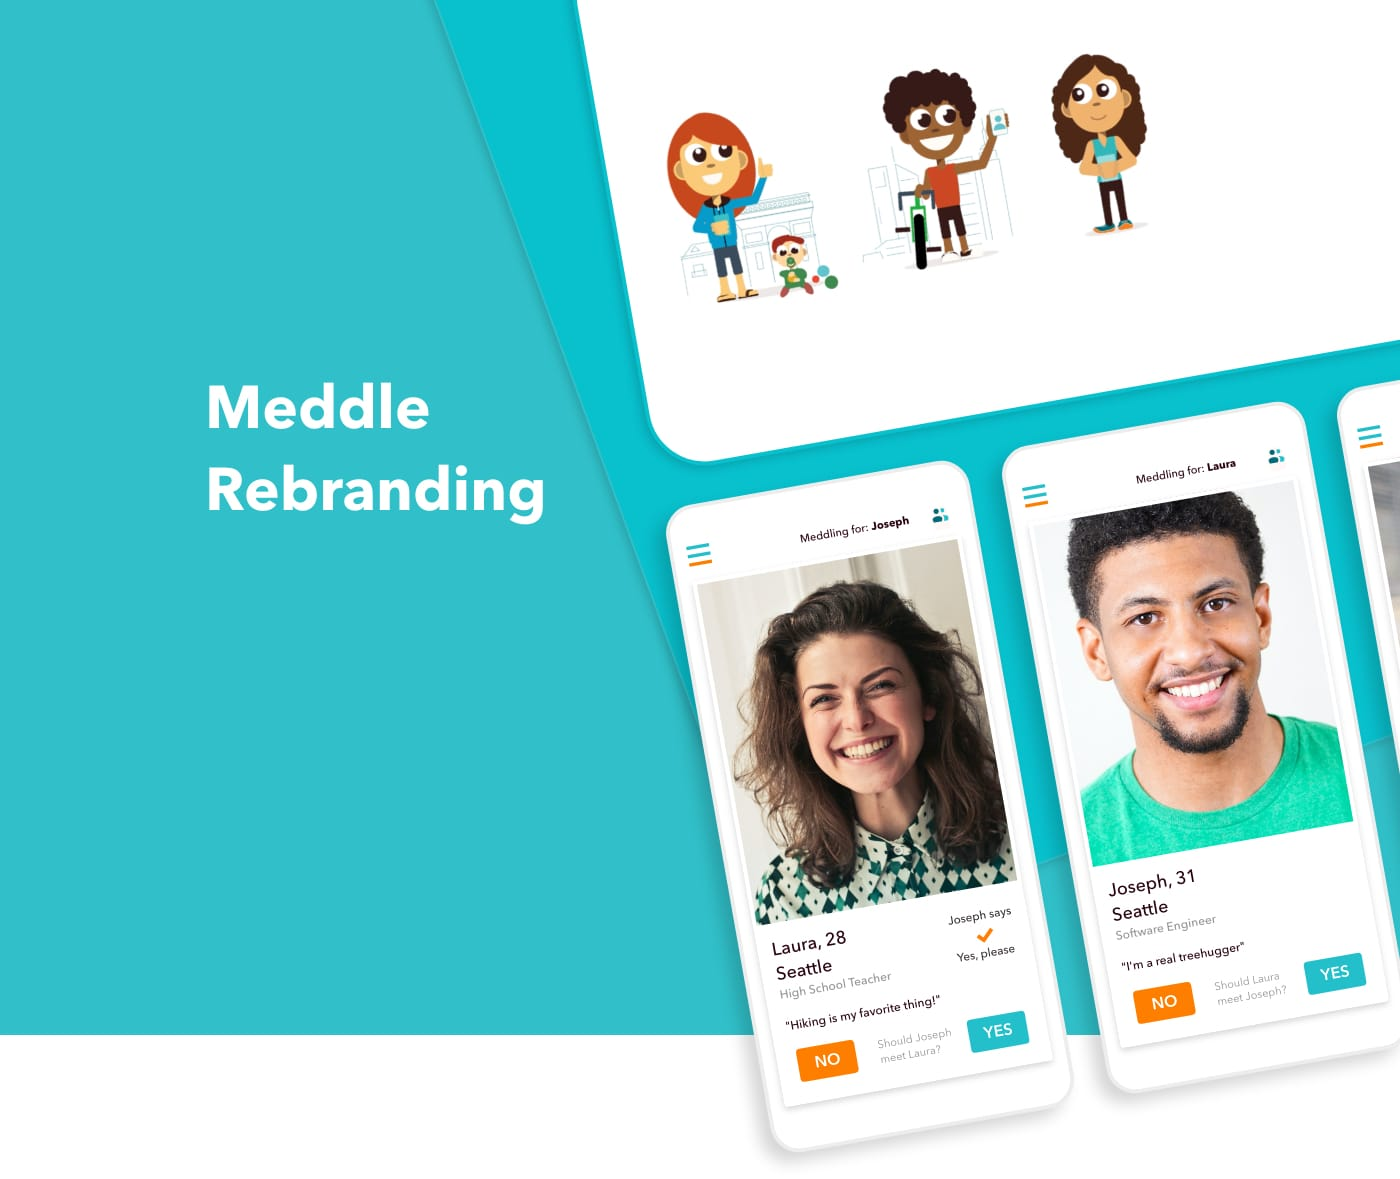
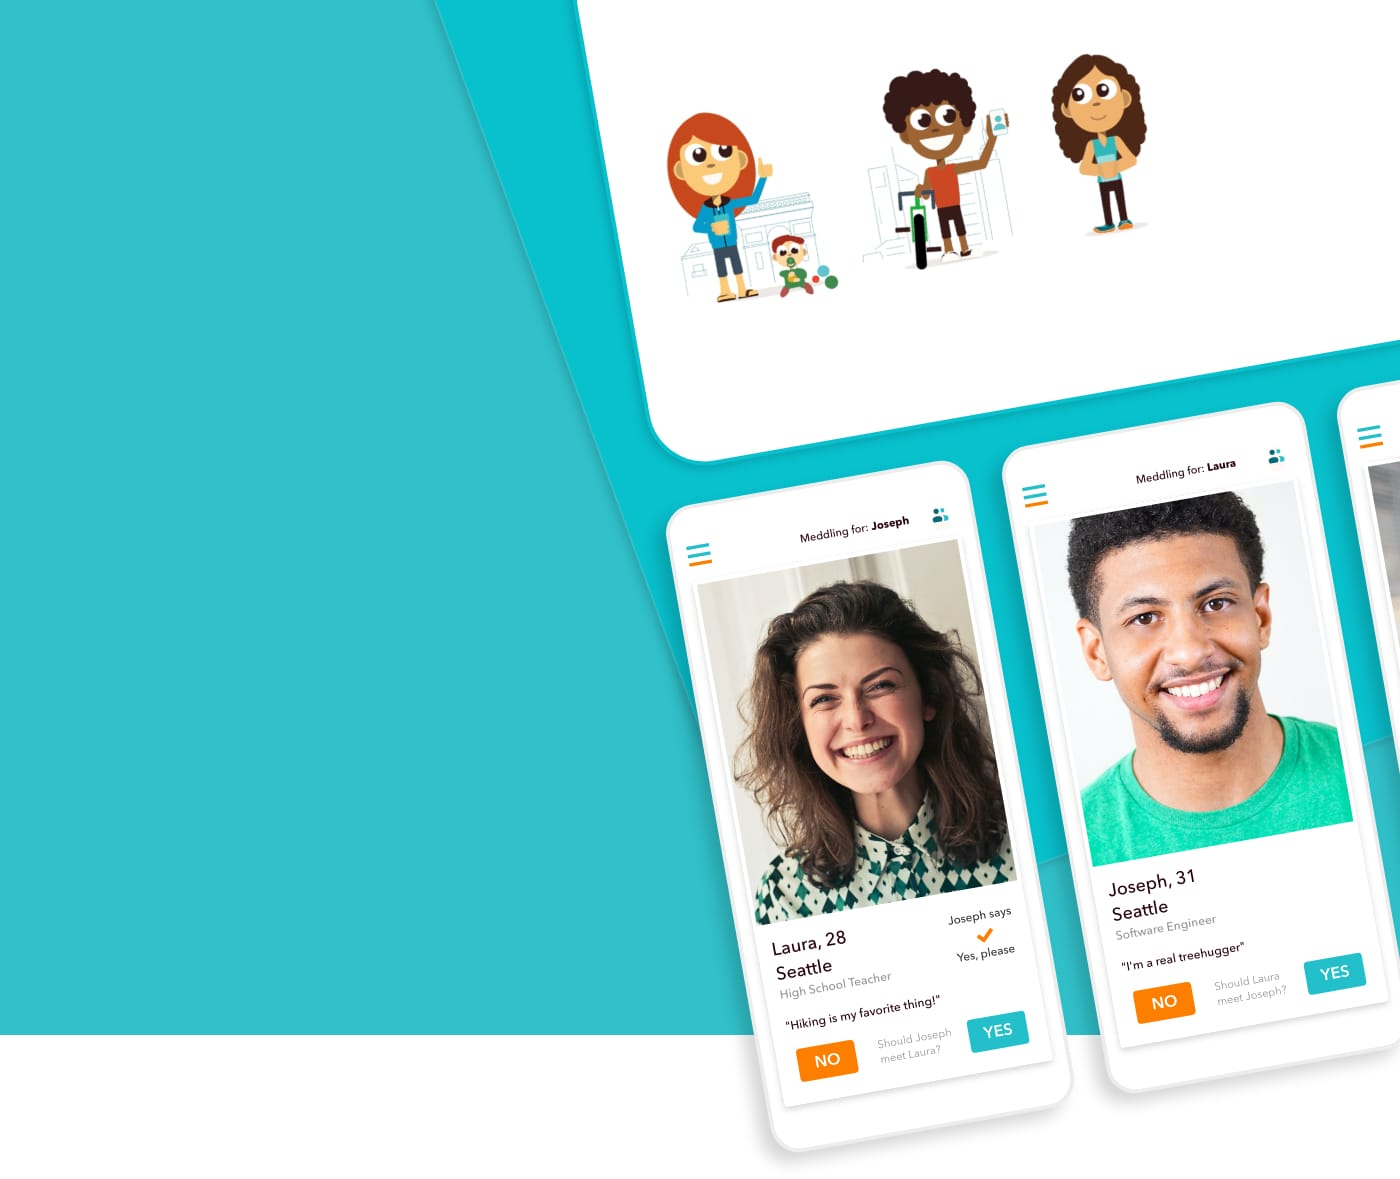
fixed meddle cover image full width issue

Changed region(s): [[0.1229, 0.3969, 0.3993, 0.458], [0.1229, 0.3053, 0.3071, 0.3664]]

diff --git a/src/stylesheets/main.scss b/src/stylesheets/main.scss
@@ -286,6 +286,11 @@ picture {
 .picture {
 	margin-top: 1rem;
 }
+.full {
+	img {
+		width: 100vw;
+	}
+}
 img {
 	max-width: 100%;
 }
@@ -767,7 +772,7 @@ hr.line {
 		overflow: hidden;
 		text-overflow: ellipsis;
 		max-width: 20px;
-		opacity: 80%;
+		opacity: 50%;
 	}	
 	a:hover {
 		color: $licorice;
